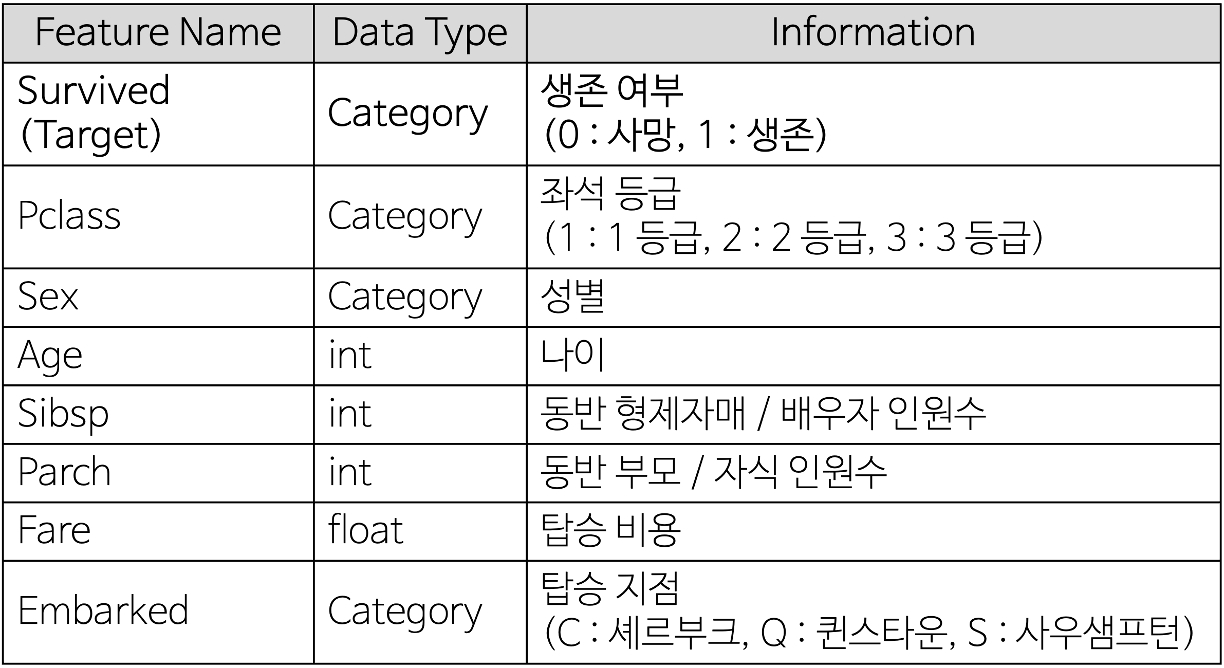
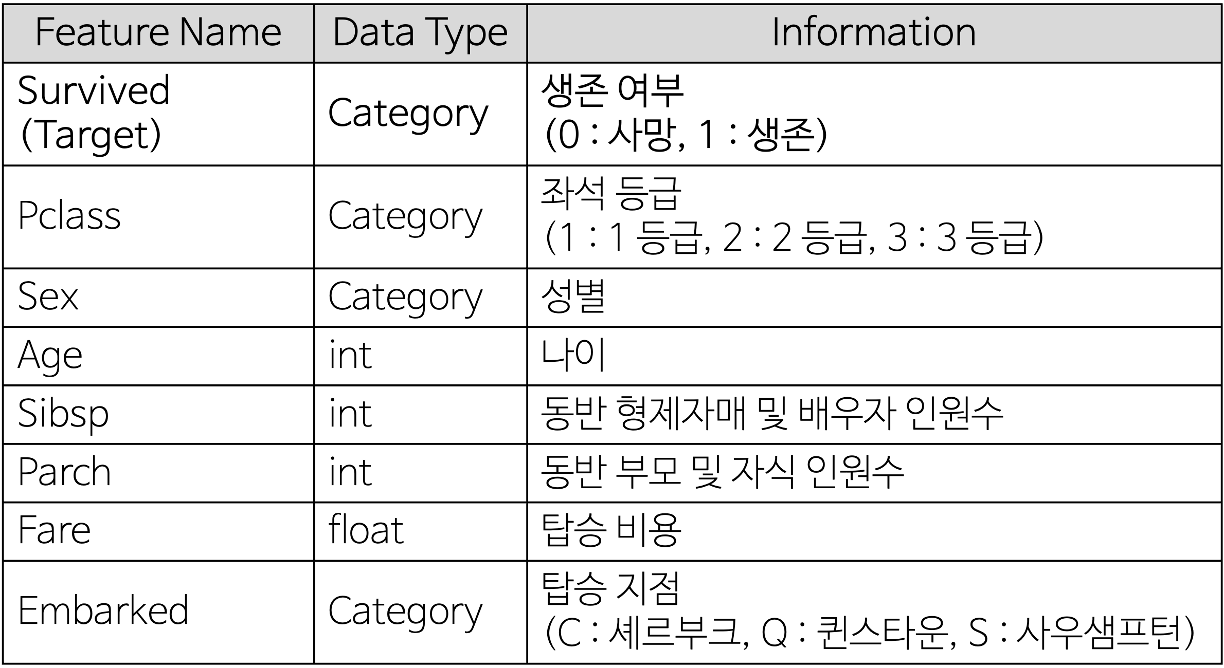
update AdaBoost

diff --git a/_posts/ML/2024-01-15-AdaBoost.md b/_posts/ML/2024-01-15-AdaBoost.md
@@ -16,7 +16,7 @@ sidebar:
 <details>
     <summary>Reference</summary>
 
-- 파이썬 머신러닝 완벽 가이드(4-5)
+- 파이썬 머신러닝 완벽 가이드(Chapter 4-5)
 
 </details>
 **< 실습 데이터셋 >**
@@ -24,7 +24,7 @@ sidebar:
 - Titanic 데이터 셋 : 타이타닉 사건(1912년도) 때 타이타닉 호에 탑승했던 승객들의 정보, 생존 여부등으로 총 11개의 Feature로 이루어져 있습니다.
     - 11개의 변수 중 분석에 사용할 변수는 아래의 표에서 소개를 합니다.
 
-<img src = "./assets/IMG/AdaBoost_img/Ada_Parameter_Information.png" width = "70%">
+<img src = "./assets/IMG/AdaBoost_img/Features_Information.png" width = "70%">
 
 - Flow Chart
 
@@ -46,13 +46,6 @@ warnings.filterwarnings(action = 'ignore')
 # Model Definition
 from sklearn.ensemble import AdaBoostClassifier
 
-# Search 범위 설정
-from scipy.stats import uniform
-
-# Search Define
-from sklearn.model_selection import RandomizedSearchCV, GridSearchCV
-from skopt import BayesSearchCV                                        # BayesSearch(skopt library)
-
 # Evaluation
 from sklearn.metrics import roc_curve, accuracy_score, confusion_matrix, roc_auc_score
 # 1. 데이터 불러오기
@@ -68,7 +61,7 @@ titanic['FamSize'] = titanic['SibSp'] + titanic['Parch']  # FamSize = 형제 및
 Use_Columns = ['Survived', 'Pclass', 'Sex', 'Age', 'FamSize', 'Fare', 'Embarked']  
 titanic = titanic[Use_Columns] 
 
-# 결측값 행 제거
+# 결측값 제거
 titanic.dropna(subset = ['Age'], axis = 0, inplace = True)
 
 # 변수 형태 변경
@@ -113,292 +106,39 @@ from sklearn.ensemble import AdaBoostClassifier
 
 # 에이다 부스트(Ada Boost) 모형 정의(파라미터 기본값)
 AdaBoostClassifier(
-    base_estimator = None,  # 기본 분류기 지정
-    n_estimators = 50,      # 기본 분류기의 개수
-    learning_rate = 1.0,    # 학습률
-    algorithm = 'SAMME.R',  # 분류기의 학습 알고리즘 지정
-    random_state = None     # 고정값
+    base_estimator = None,              # 기본 분류기 지정
+    n_estimators = 50,                  # 기본 분류기의 개수
+    learning_rate = 1.0,                # 학습률
+    algorithm = 'SAMME.R',              # 분류기의 학습 알고리즘 지정
+    random_state = None                 # 고정값
 )
 ```
 
 <details>
     <summary>Parameters</summary>
 
-<img src = "./assets/IMG/AdaBoost_img/Ada_Parameter_Information.png" width = "70%">
+<img src = "./assets/IMG/AdaBoost_img/Ada_Parameter_Information.png" width = "60%">
     
 </details>
-## 5-1. Random Search CV
-
-- `주어진 하이퍼 파라미터 공간에서 랜덤하게 하이퍼파라미터 조합을 선택`하여 성능을 평가하고, 가장 성능이 좋은 하이퍼파라미터 조합을 찾는 기법
-
-<img src = "./assets/IMG/AdaBoost_img/RandomSearch_1.png" width = "70%">
-
-<details>
-    <summary>Random Search Code</summary>
-    
-```python
-from sklearn.model_selection.RandomizedSearchCV
-
-# 모형 정의
-RS_Model = RandomizedSearchCV(estimator,            # 탐색할 모형
-                              param_distributions,  # 하이퍼 파라미터 분포 or 구간 or 값 
-                              n_iter = 10,          # 샘플링 횟수
-                              scoring = None,       # 교차검증된 모형의 성능 확인 지표
-                              cv = None,            # 교차검증
-                              n_jobs = None,        # 사용할 CPU 개수
-                              random_state = None)  # 고정값
-
-# 모형 훈련
-RS_Model.fit(X_trian, y_train)
-
-# 모형 예측
-RS_Model.predict(X_test)
-RS_Model.predict_proba(X_test)
-
-# 결과 조회
-RS_Model.cv_results_      # 파라미터 조합별 결과
-RS_Model.best_params_     # 최적의 하이퍼 파라미터 값
-RS_Model.best_estimator_  # 가장 좋은 성능을 낸 모형
-```
-    
-</details>
-# 에이다부스트(AdaBoost) 모형 정의
+## 5-1. 모형 정의
+# 에이다 부스트(Ada Boost) 모형 정의
 AdaB = AdaBoostClassifier(
-    estimator = None,  # 기본 분류기 지정
-    algorithm = 'SAMME',  # 분류기의 학습 알고리즘 지정
+    base_estimator = None,  # 기본 분류기 지정
+    n_estimators = 50,      # 기본 분류기의 개수
+    learning_rate = 1.0,    # 학습률
+    algorithm = 'SAMME.R',  # 분류기의 학습 알고리즘 지정
     random_state = 0        # 고정값
 )
-
-# AdaB Parameters RandomSearch Range
-RS_AdaB_params = {
-    'n_estimators' : range(10, 500),      # 트리 개수
-    'learning_rate' : uniform(0.01, 1.0)  # 학습률
-}
-
-# AdaB RandomSearch 모형 정의
-RS_AdaB = RandomizedSearchCV(estimator = AdaB,                      # 기본 모형
-                             param_distributions = RS_AdaB_params,  # 하이퍼파라미터 튜닝값
-                             cv = 5,                                # 교차검증 횟수    
-                             n_jobs = -1,                           # 사용할 CPU 개수
-                             random_state = 1)                      # 고정값
-
-# AdaB RandomSearch 모형 훈련
-RS_AdaB.fit(X_train, y_train)
-
-# 최적의 파라미터 출력
-print(f"RS_AdaB Best Hyperparameters : {RS_AdaB.best_params_}")
-print(f"RS_AdaB Best Score : {RS_AdaB.best_score_ * 100:.2f}%")
-
-# 테스트셋 예측
-RS_AdaB_pred = RS_AdaB.predict(X_test)
-
-# 성능 평가
-RS_AdaB_cfx = confusion_matrix(y_test, RS_AdaB_pred)                               # Confusion Matrix
-RS_AdaB_sensitivity = RS_AdaB_cfx[1, 1] / (RS_AdaB_cfx[1, 0] + RS_AdaB_cfx[1, 1])  # 민감도 계산
-RS_AdaB_specificity = RS_AdaB_cfx[0, 0] / (RS_AdaB_cfx[0, 0] + RS_AdaB_cfx[0, 1])  # 특이도 계산
-
-print(f"RS_AdaB 정확도(accuracy) : {accuracy_score(y_test, RS_AdaB_pred) * 100 :.2f}%")
-print(f"RS_AdaB Confusion_Matrix :\n{RS_AdaB_cfx}")
-print(f"RS_AdaB 민감도(sensitivity) : {RS_AdaB_sensitivity * 100 :.2f}%")
-print(f"RS_AdaB 특이도(specificity) : {RS_AdaB_specificity * 100 :.2f}%")
-## 5-2. Grid Search CV
-
-- 교차 검증 점수를 기반으로 설정한 `모든 하이퍼 파라미터를 탐색후` 최적의 하이퍼 파라미터를 선정하는 기법
-
-<img src = "./assets/IMG/AdaBoost_img/GridSearch_1.png" width = "70%">
-
-**< Process >**  
-
-I. 하이퍼파라미터 범위 지정  
-II. 훈련 세트에서 그리드 서치를 수행하여 최상의 평균 검증 점수가 나온는 매개변수 조합을 탐색 → 그리드 서치 객체에 저장  
-III. 최상의 매개변수에서 전체 훈련 세트를 사용해 최종 모형을 훈련 → 그리드 서치 객체에 저장  
-
-<details>
-    <summary>Grid Search Code</summary>
-    
-```python
-from sklearn.model_selection.GridSearchCV
-
-# 모형 정의 
-GS_Model = GridSearchCV(estimator,   # 탐색할 모형 
-                        param_grid,  # 하이퍼 파라미터 구간 or 값
-                        scoring,     # 교차검증된 모형의 성능 확인 지표
-                        cv,          # 교차검증
-                        n_jobs)      # 사용할 CPU 개수
-
-# 모형 훈련
-GS_Model.fit(X_train, y_train)
-
-# 모형 예측
-GS_Model.predict(X_test)
-GS_Model.predict_proba(X_test)
-
-# 결과 조회
-GS_Model.cv_results_      # 파라미터 조합별 결과
-GS_Model.best_params_     # 최적의 하이퍼 파라미터 값
-GS_Model.best_estimator_  # 가장 좋은 성능을 낸 모형 
-```
-    
-</details>
-# 에이다 부스트(Ada Boost) 모형 정의
-AdaB = AdaBoostClassifier(
-    estimator = None,     # 기본 분류기 지정
-    algorithm = 'SAMME',  # 분류기의 학습 알고리즘 지정
-    random_state = 0      # 고정값
-)
-
-# AdaB Parameters GridSearch Range
-GS_AdaB_params = {
-    'n_estimators' : [289, 290, 291, 292, 293],       # 트리 개수
-    'learning_rate' : [0.66, 0.68, 0.69, 0.70, 0.71]  # 학습률 
-}
-
-# AdaB GridSearch 모형 정의
-GS_AdaB = GridSearchCV(estimator = AdaB,             # 기본 모형
-                       param_grid = GS_AdaB_params,  # 하이퍼파라미터 튜닝값
-                       cv = 5,                       # 교차검증 횟수 
-                       n_jobs = -1)                  # 사용할 CPU 개수
-
-# AdaB GridSearch 모형 훈련
-GS_AdaB.fit(X_train, y_train)
-
-# 최적의 파라미터 출력
-print(f"GS_AdaB Best Hyperparameters : {GS_AdaB.best_params_}")
-print(f"GS_AdaB Best Score : {GS_AdaB.best_score_ * 100:.2f}%")
-
-# 테스트셋 예측
-GS_AdaB_pred = GS_AdaB.predict(X_test)
-
-# 성능 평가
-GS_AdaB_cfx = confusion_matrix(y_test, GS_AdaB_pred)                               # Confusion Matrix
-GS_AdaB_sensitivity = GS_AdaB_cfx[1, 1] / (GS_AdaB_cfx[1, 0] + GS_AdaB_cfx[1, 1])  # 민감도 계산
-GS_AdaB_specificity = GS_AdaB_cfx[0, 0] / (GS_AdaB_cfx[0, 0] + GS_AdaB_cfx[0, 1])  # 특이도 계산
-
-print(f"GS_AdaB 정확도(accuracy) : {accuracy_score(y_test, GS_AdaB_pred) * 100 :.2f}%")
-print(f"GS_AdaB Confusion_Matrix :\n{GS_AdaB_cfx}")
-print(f"GS_AdaB 민감도(sensitivity) : {GS_AdaB_sensitivity * 100 :.2f}%")
-print(f"GS_AdaB 특이도(specificity) : {GS_AdaB_specificity * 100 :.2f}%")
-## 5-3. Bayes Search CV
-
-- 목적 함수 식을 제대로 알 수 없는 블랙 박스 형태의 함수에서 최대 또는 최소 함수 반환 값을 만드는 최적 입력값을 가능한 적은 시도를 통해 빠르고 효과적으로 찾아주는 방식
-- 새로운 데이터를 입력받았을 때 최적 함수를 예측하는 모형을 개선해 나가면서 최적 함수 모형을 만들어내는 기법
-    - 대체 모형(Surrogate Model)
-        - 획득 함수로부터 최적 함수를 예측할 수 있는 입력값을 추천 받은 뒤 이를 기반으로 최적 함수 모형을 개선
-    - 획득 함수(Acquisition Function)
-        - 개선된 대체 모형을 기반으로 최적 입력값을 계산
-    - 즉, 대체 모형은 획득 함수가 계산한 하이퍼 파라미터를 입력받으면서 점차적으로 개선되며, 개선된 대체 모형을 기반으로 회득 함수는 더 정확한 하이퍼 파라미터를 계산할 수 있게 됨
-- Process
-
-    I. 최초에는 랜덤하게 하이퍼 파라미터들을 샘플링하고 성능 결과를 관측
-    
-    <img src = ".assets/IMG/AdaBoost_img/Bayesian_1.png" width = "50%">
-
-    → 검은색 원은 특정 하이퍼파라미터가 입력되었을 때 관측된 성능 지표 결괏값을 뜻하며 주황색 사선은 찾아야 할 목표인 최적 함수
-
-    II. 관측된 값을 기반으로 대체 모형은 최적 함수를 추정  
-
-    <img src = "./assets/IMG/AdaBoost_img/Bayesian_2.png" width = "50%">
-
-    → 파란색 실선은 대체 모형이 추정한 최적함수, 옅은 파란색으로 되어있는 영역은 예측된 함수의 신뢰구간
-    → 추정된 함수의 결괏값 오류 편차를 의미하며 추정 함수의 불확실성을 나타냄
-    → 최적 관측값은 $y$축 value에서 가장 높은 값을 가질 때의 하이퍼 파라미터
-  
-    III. 추정된 최적 함수를 기반으로 획득 함수(Acquisition Function)는 다음으로 관측할 하이퍼 파라미터 값을 계산
-
-    <img src = "./assets/IMG/AdaBoost_img/Bayesian_3.png" width = "50%">
-
-    → 획득 함수는 이전의 최적 관측값보다 더 큰 최댓값을 가질 가능성이 높은 지점을 찾아서 다음에 관측할 하이퍼 파라미터를 대체 모형에 전달
-  
-    IV. 획득 함수로부터 전달된 하이퍼파라미터를 수행하여 관측된 값을 기반으로 대체 모형은 갱신되어 다시 최적 함수를 예측 추정함
-    
-    <img src = "./assets/IMG/AdaBoost_img/Bayesian_4.png" width = "50%">
-
-<details>
-    <summary>Bayesian Search Code</summary>
-    
-```python
-from skopt import BayesSearchCV
-
-# 모형 정의
-BS_Model = BayesSearchCV(estimator,      # 탐색할 모형
-                         search_spaces,  # 하이퍼 파라미터 구간(딕셔너리 or 정수만 가능)
-                         n_iter,         # 샘플링 반복 횟수
-                         cv,             # 교차검증
-                         scoring,        # 교차검증된 모형의 성능 확인 지표 
-                         refit = True,   # 전체 데이터 셋에 사용하여 최종 모형 학습 여부
-                         n_jobs,         # 사용할 CPU 개수
-                         random_state)   # 고정값
-# 모형 훈련
-BS_Model.fit(X_train, y_train)
-
-# 모형 예측
-BS_Model.predict(X_test)
-BS_Model.predict_proba(X_test)
-
-# 결과 조회
-BS_Model.cv_results       # 파라미터 조합별 결과
-BS_Model.best_params_     # 최적의 하이퍼 파라미터 값
-BS_Model.best_estimator_  # 가장 좋은 성능을 낸 모형
-```
-
-</details>
-# 에이다 부스트(Ada Boost) 모형 정의
-AdaB = AdaBoostClassifier(
-    algorithm = 'SAMME',  # 분류기의 학습 알고리즘 지정
-    random_state = 0      # 고정값
-)
-
-# AdaB Parameters BayesSearch Range
-BS_AdaB_params = {
-    'n_estimators' : (10, 500, 'uniform'),    # 트리 개수
-    'learning_rate' : (0.01, 1.0, 'uniform')  # 학습률 
-}
-
-
-# AdaB BayesSearch 모형 정의
-BS_AdaB = BayesSearchCV(estimator = AdaB,                # 기본 모형
-                        search_spaces = BS_AdaB_params,  # 하이퍼파라미터 튜닝값
-                        n_iter = 10,                     # 샘플링 횟수
-                        cv = 5,                          # 교차검증 횟수
-                        n_jobs = -1,                     # 사용할 CPU 개수
-                        random_state = 16)               # 고정값
-
-# AdaB BayesSearch 모형 훈련
-BS_AdaB.fit(X_train, y_train)
-
-# 최적의 파라미터 출력
-print(f"BS_AdaB Best Hyperparameters : {BS_AdaB.best_params_}")
-print(f"BS_AdaB Best Score : {BS_AdaB.best_score_ * 100:.2f}%")
-
-# 테스트셋 예측
-BS_AdaB_pred = BS_AdaB.predict(X_test)
-
-# 성능 평가
-BS_AdaB_cfx = confusion_matrix(y_test, BS_AdaB_pred)                               # Confusion Matrix
-BS_AdaB_sensitivity = BS_AdaB_cfx[1, 1] / (BS_AdaB_cfx[1, 0] + BS_AdaB_cfx[1, 1])  # 민감도 계산
-BS_AdaB_specificity = BS_AdaB_cfx[0, 0] / (BS_AdaB_cfx[0, 0] + BS_AdaB_cfx[0, 1])  # 특이도 계산
-
-print(f"BS_AdaB 정확도(accuracy) : {accuracy_score(y_test, BS_AdaB_pred) * 100 :.2f}%")
-print(f"BS_AdaB Confusion_Matrix :\n{BS_AdaB_cfx}")
-print(f"BS_AdaB 민감도(sensitivity) : {BS_AdaB_sensitivity * 100 :.2f}%")
-print(f"BS_AdaB 특이도(specificity) : {BS_AdaB_specificity * 100 :.2f}%")
-# 6. 최종 모형
-- 가장 높은 정확도를 가진 하이퍼파라미터 튜닝 결과를 가져옴
-## 6-1. 모형 정의
-AdaB = AdaBoostClassifier(
-    n_estimators = 289,    # 트리 개수
-    learning_rate = 0.66,  # 학습률
-    estimator = None,      # 기본 분류기 지정
-    algorithm = 'SAMME',   # 분류기의 학습 알고리즘 지정
-    random_state = 0       # 고정값
-)
-## 6-2. 모형 훈련
+## 5-2. 모형 훈련
+# Ada Boost 기본 모형 훈련
 AdaB.fit(X_train, y_train)
-### 6-2-1. 변수 중요도
+### 5-2-1. 변수 중요도
 # 피처 중요도 가져오기
-feature_importance = AdaB.feature_importances_  
-indices = np.argsort(feature_importance)[::-1]  # 정렬
-feature_names = X_train.columns                 # 피처 이름
+feature_importance = AdaB.feature_importances_
+# 정렬
+indices = np.argsort(feature_importance)[::-1]
+# 피처 이름
+feature_names = X_train.columns
 
 # 피처 중요도 시각화
 plt.bar(range(X_train.shape[1]), feature_importance[indices], align = "center")
@@ -407,12 +147,12 @@ plt.xlabel("Feature Index")
 plt.ylabel("Feature Importance")
 plt.title("AdaBoost Feature Importance")
 plt.show()
-## 6-3. 모형 평가
+## 5-3. 모형 평가
 AdaB_pred = AdaB.predict(X_test)
 AdaB_pred
-### 6-3-1. Confusion Matrix
+### 5-3-1. Confusion Matrix
 
-<img src = "./assets/IMG/AdaBoost_img/Confusion Matrix.png" width = "70%">
+<img src = "./assets/IMG/AdaBoost_img/Confusion Matrix.png" width = "50%">
 AdaB_cfx = confusion_matrix(y_test, AdaB_pred)                         # Confusion Matrix(True, pred)
 AdaB_sensitivity = AdaB_cfx[1, 1] / (AdaB_cfx[1, 0] + AdaB_cfx[1, 1])  # 민감도 계산
 AdaB_specificity = AdaB_cfx[0, 0] / (AdaB_cfx[0, 0] + AdaB_cfx[0, 1])  # 특이도 계산
@@ -421,7 +161,9 @@ print(f"AdaB 정확도(accuracy) : {accuracy_score(y_test, AdaB_pred) * 100 :.2f
 print(f"AdaB Confusion_Matrix :\n{AdaB_cfx}")
 print(f"AdaB 민감도(sensitivity) : {AdaB_sensitivity * 100 :.2f}%")
 print(f"AdaB 특이도(specificity) : {AdaB_specificity * 100 :.2f}%")
-### 6-3-2. ROC 곡선
+### 5-3-2. ROC 곡선
+AdaB_pred = AdaB.predict(X_test)
+
 fpr, tpr, thresholds = roc_curve(y_test, AdaB_pred)
 
 J = tpr - fpr
